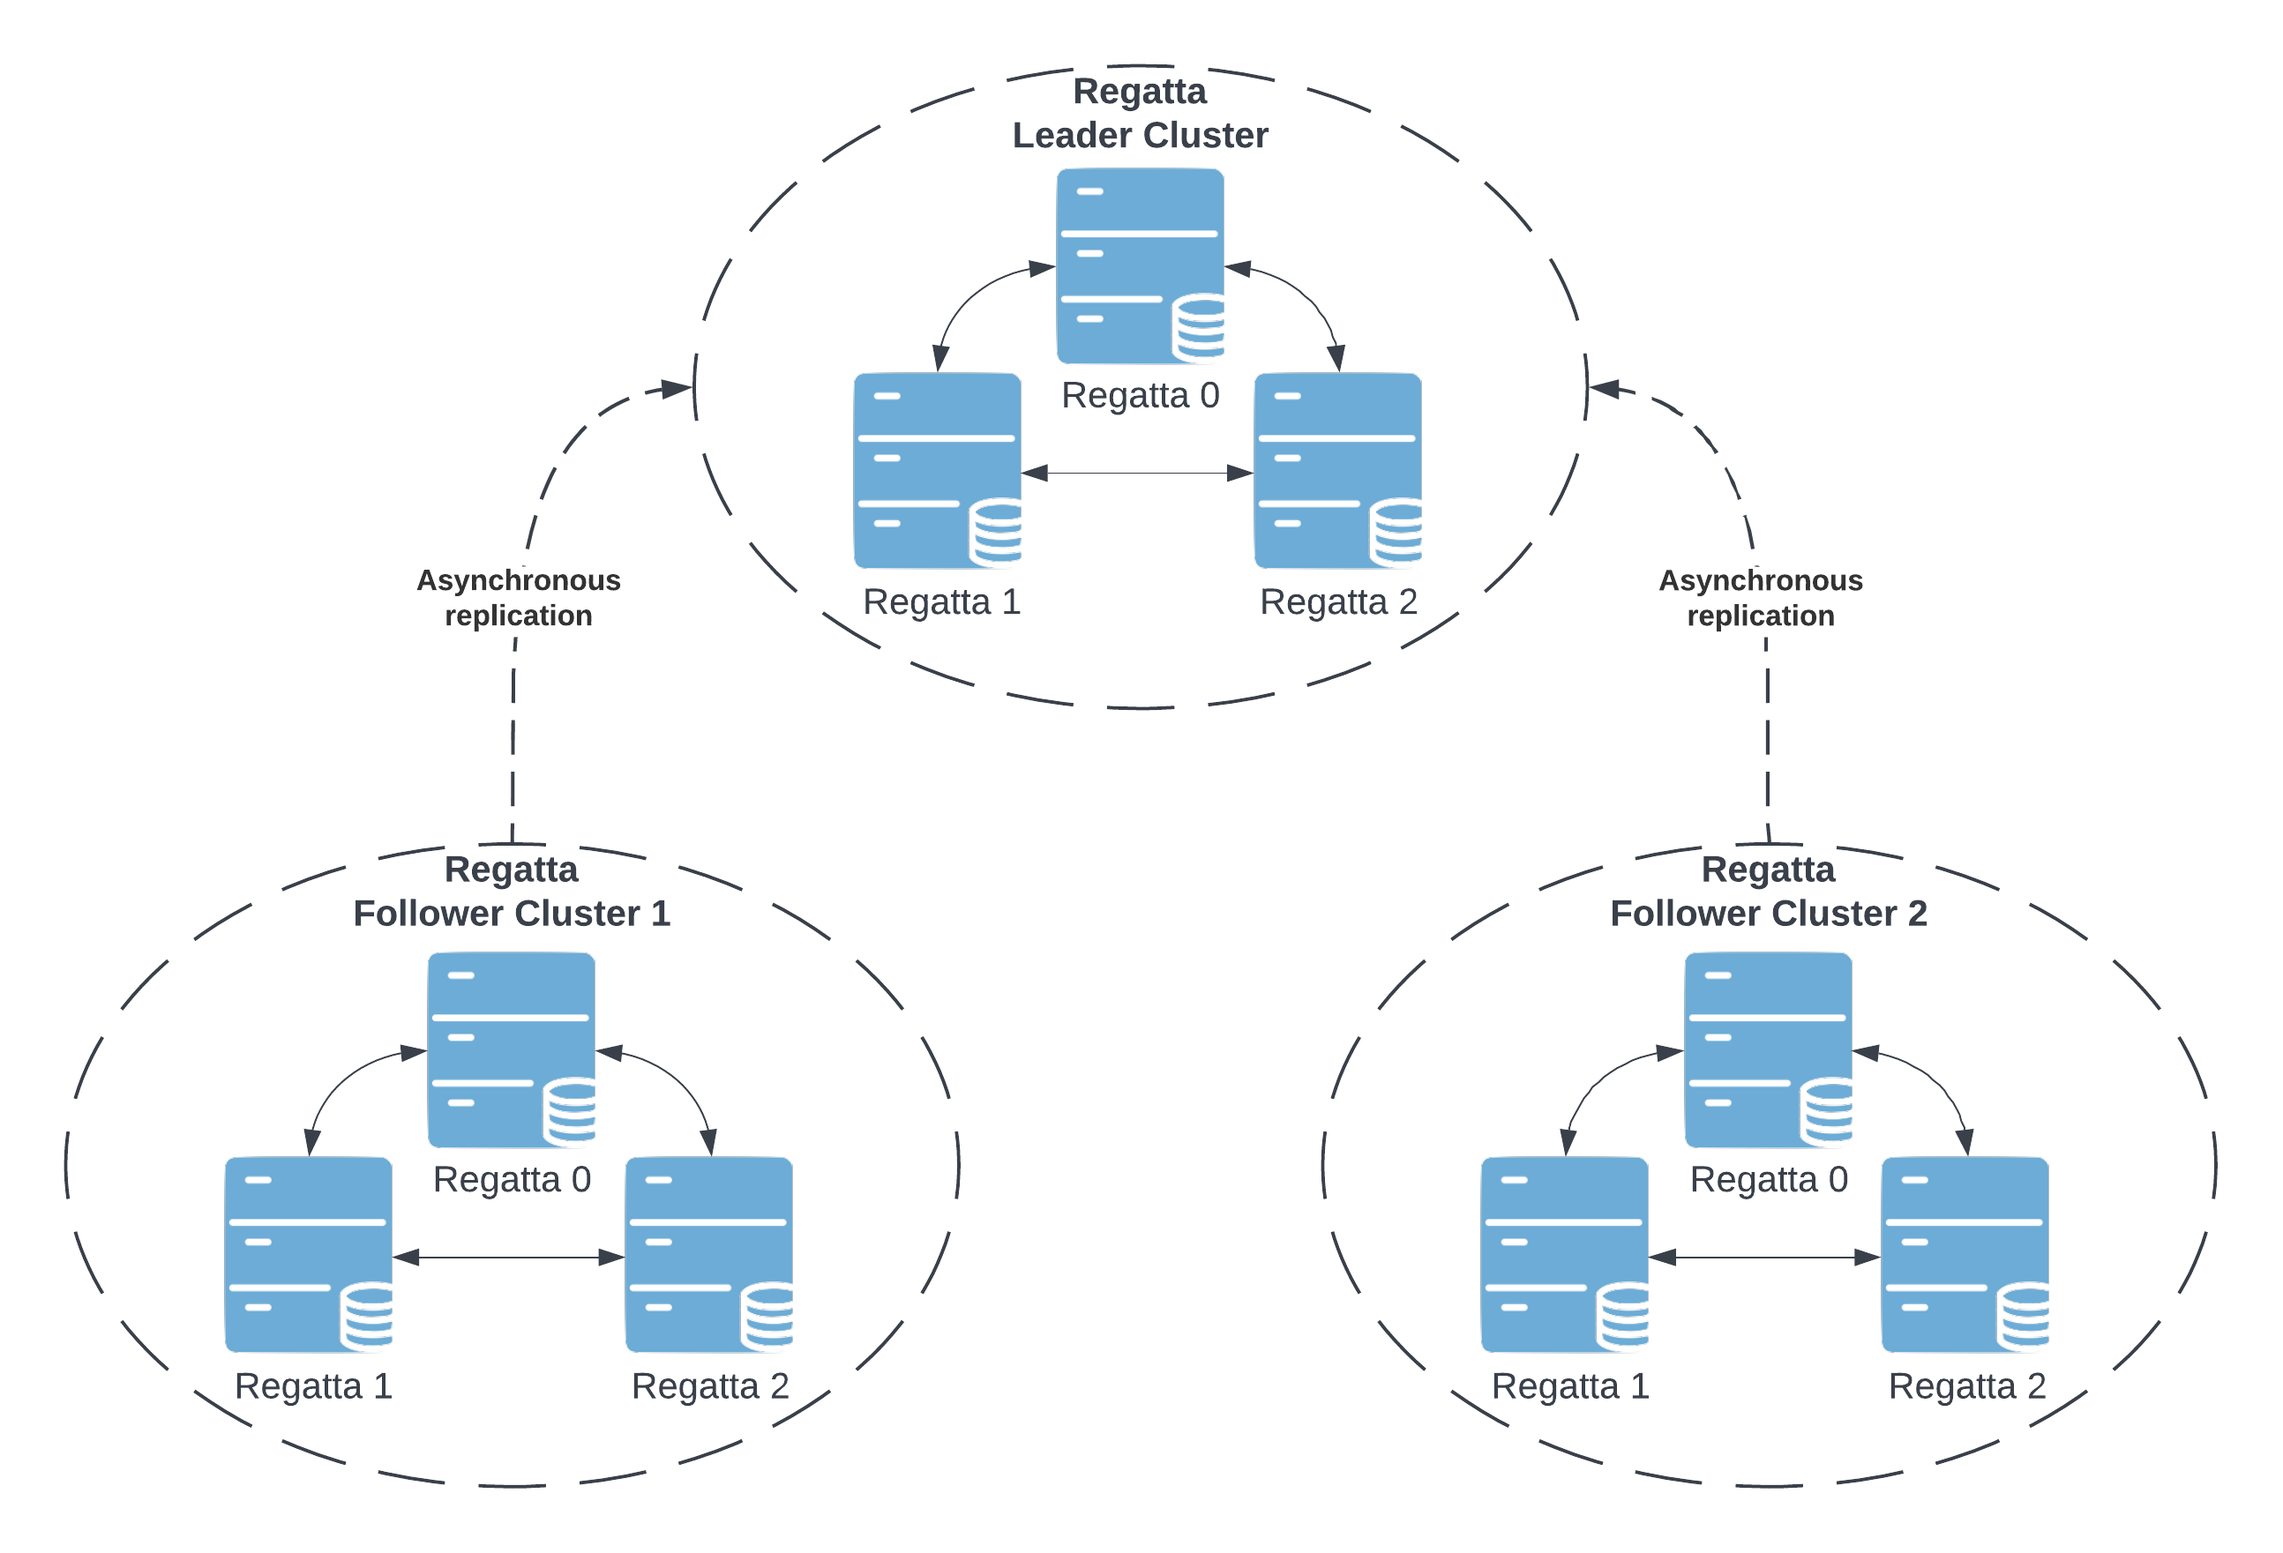
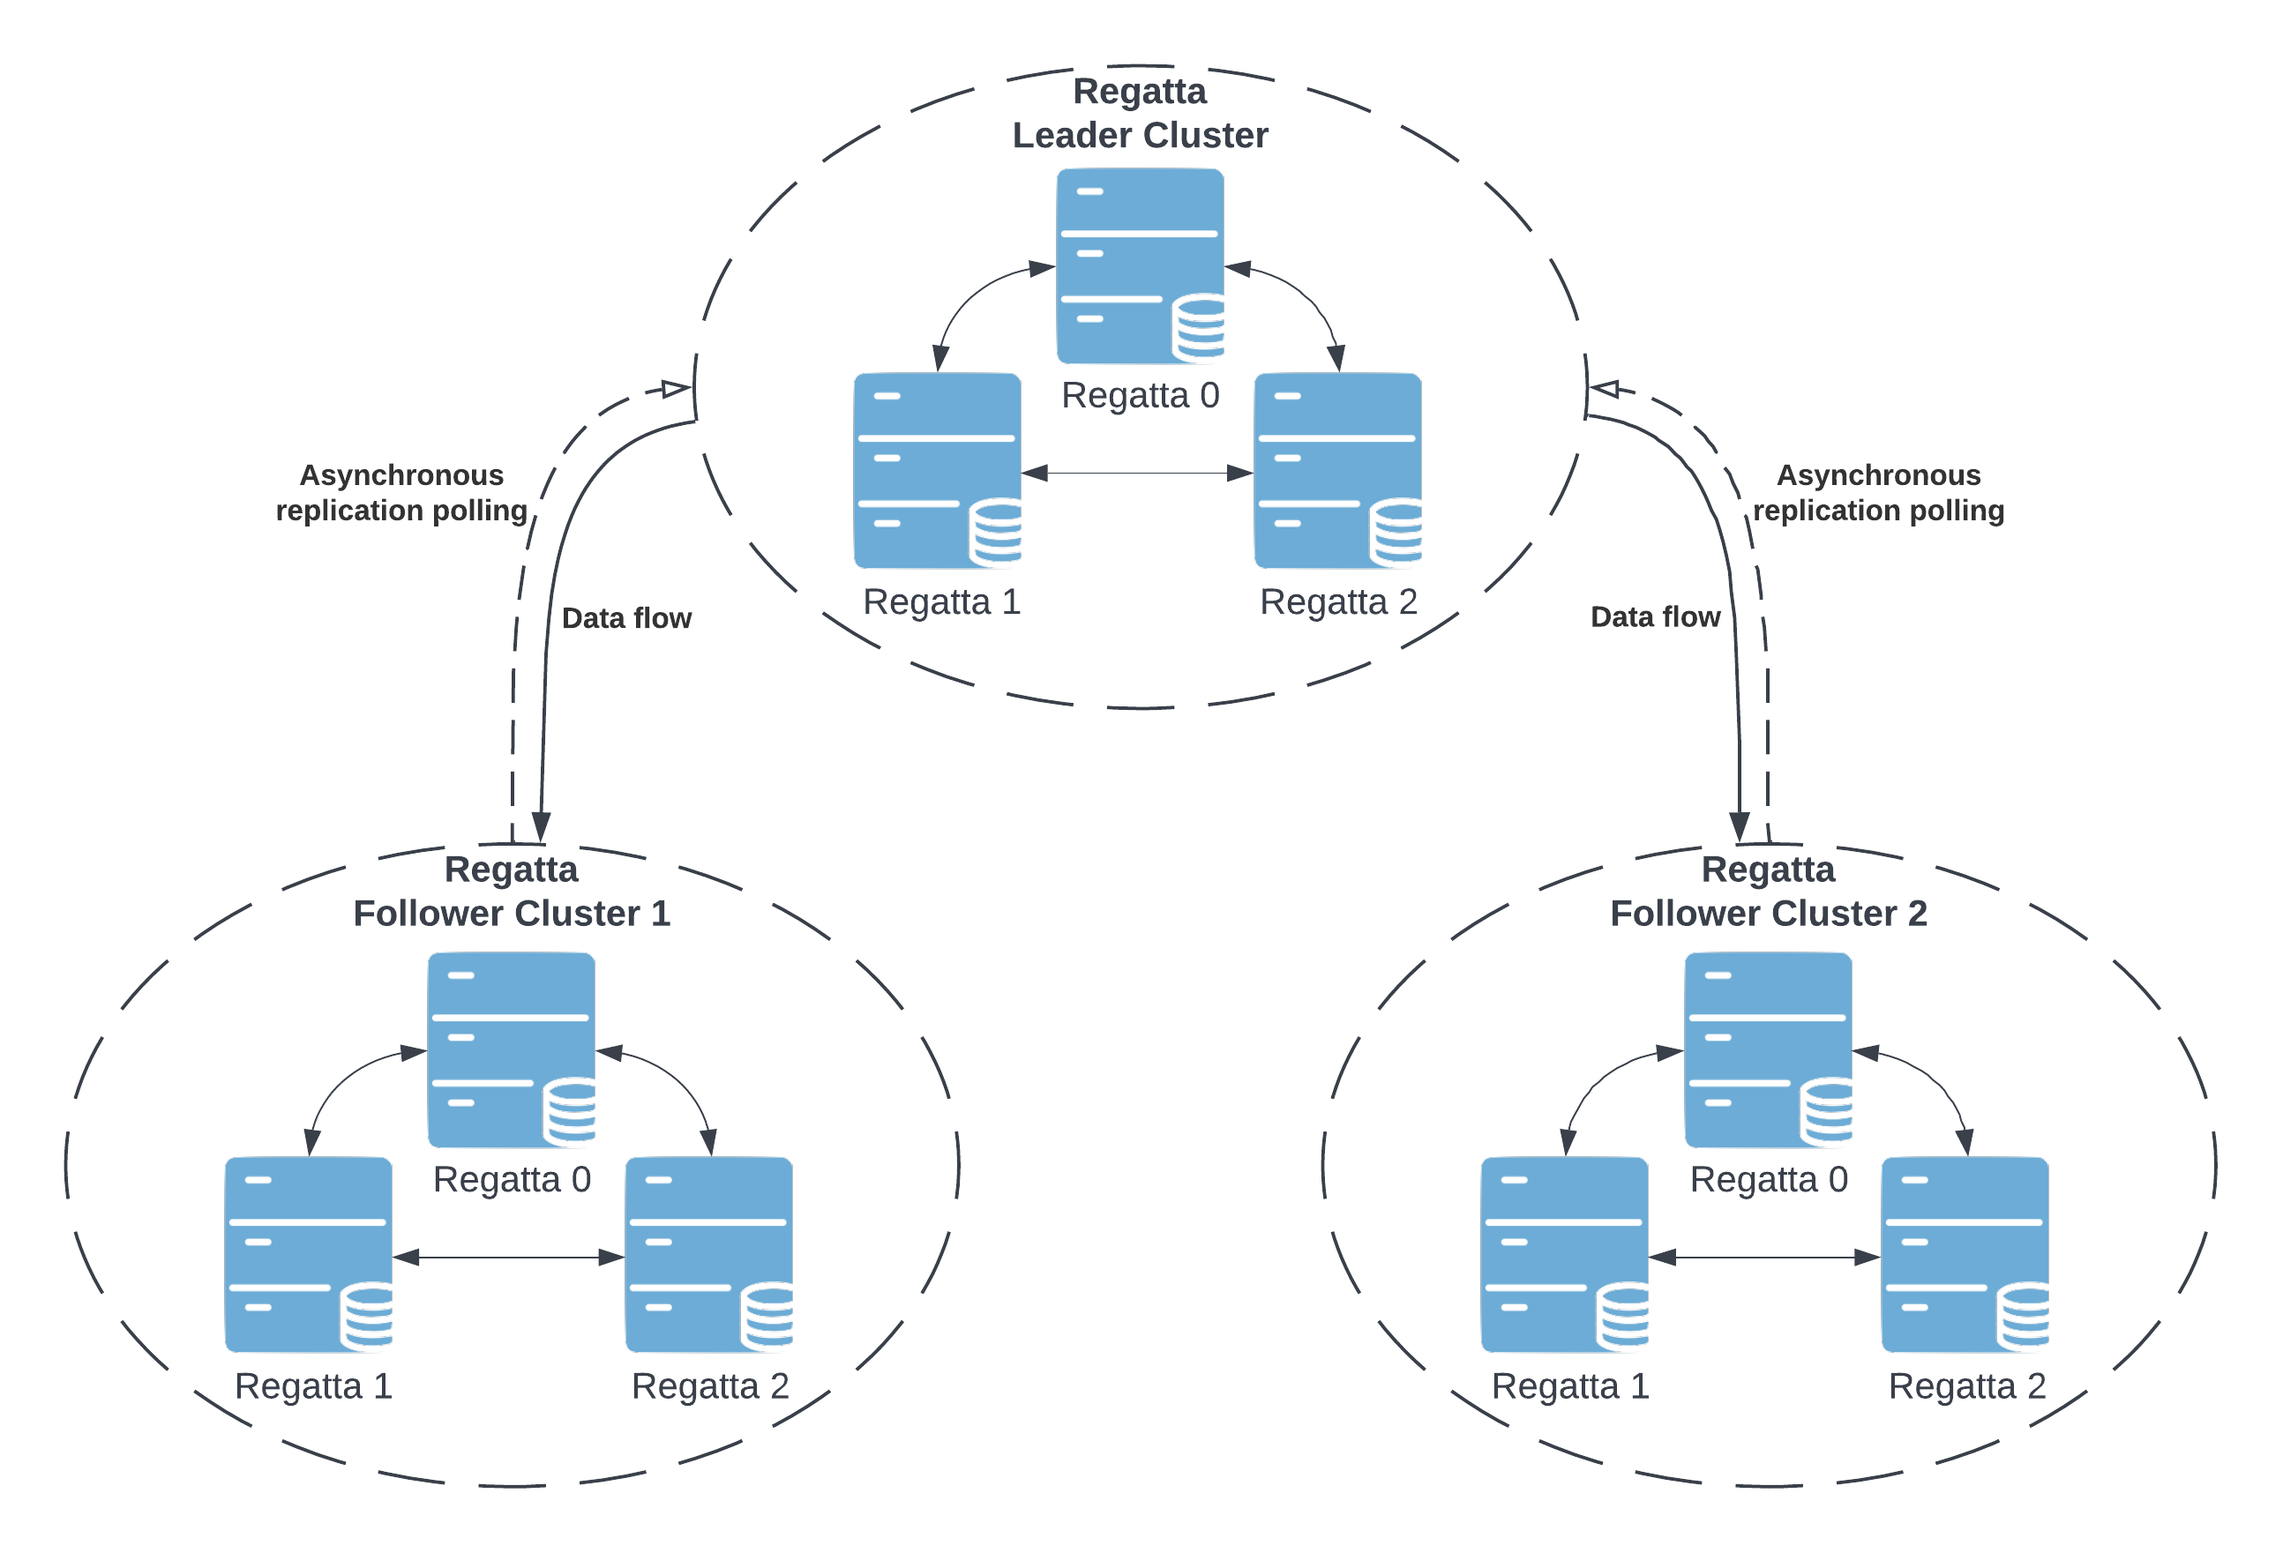
fix: docs: topology schema, page order, links

diff --git a/docs/index.md b/docs/index.md
@@ -1,5 +1,5 @@
 ---
-title: Home
+title: Introduction
 layout: home
 nav_order: 1
 ---
@@ -7,36 +7,40 @@ nav_order: 1
 # Regatta
 
 **Regatta** is a distributed, eventually consistent key-value store built for Kubernetes.
-It is designed to distribute data globally in a *hub-and-spoke model* with an emphasis on *high read throughput*.
+It is designed to distribute data globally in a
+[*hub-and-spoke model*](https://en.wikipedia.org/wiki/Spoke–hub_distribution_paradigm)
+with an emphasis on *high read throughput*.
 It is *fault-tolerant* and able to handle network partitions and node outages gracefully.
 
-## Built for Kubernetes
+## Feature Overview
+
+### Built for Kubernetes
 
 Regatta is Kubernetes native. You can manage and monitor Regatta as any
 other Kubernetes deployment. Check out the
 [official Regatta Helm Chart](https://github.com/jamf/regatta-helm) for more information.
 
-## Distribute data globally in a hub-and-spoke model
+### Distribute data globally in a hub-and-spoke model
 
 Regatta is designed to efficiently distribute data from a single core cluster
 to multiple edge clusters around the world. See the [Architecture](/architecture#Topology)
 page for more information.
 
-## Emphasis on high read throughput
+### Emphasis on high read throughput
 
 Regatta is built to handle read-heavy workloads and to serve sub-millisecond reads.
 
-## Fault-tolerance and data availability
+### Fault-tolerance and data availability
 
 Thanks to the Raft algorithm and data redundancy, Regatta can serve reads even in the event of
 network partition or node outage.
 
-## Data persistance
+### Data persistance
 
 Regatta is more than just an in-memory cache -- data persistence is built-in. Regatta
 can be backed up and restored from backups.
 
-## Dynamic scaling of edge clusters
+### Dynamic scaling of edge clusters
 
 Regatta makes it really easy to add new edge clusters. When adding a new edge cluster,
 no other clusters are affected and the data is automatically replicated from the core cluster to the edge cluster.
@@ -48,7 +52,7 @@ no other clusters are affected and the data is automatically replicated from the
 Regatta will provide a read-only copy of the data in edge locations. Regatta will take care of the data replication,
 data availability, and resilience in case of failure of the core cluster.
 
-### You need a local, persistent, cache within a data center and reads heavily outnumber writes
+### You need a local, persistent, cache within a data center where reads heavily outnumber writes
 
 Regatta writes are expensive in comparison with Redis for example.
 Reads are usually served from memory, resulting in sub-millisecond reads.
@@ -58,6 +62,12 @@ Reads are usually served from memory, resulting in sub-millisecond reads.
 You can define secondary indexes or additional columns/tables within a single Regatta table.
 The data consistency is granted within a single table.
 There are compare-and-switch and multi-key atomic operations available.
+
+## Why Regatta?
+
+Regatta was built because we were unable to find a distributed system
+offering all of the aforementioned features. Full story behind Regatta can be found in the blog post
+[The story of Regatta](https://medium.com/@coufalja/4652f71a350f).
 
 {: .important }
 Regatta is under heavy development. This means the API may change

diff --git a/docs/architecture.md b/docs/architecture.md
@@ -1,19 +1,21 @@
 ---
 title: Architecture
 layout: default
-nav_order: 4
+nav_order: 3
 ---
 
 # Architecture
 
-Regatta is designed as a "geographically distributed etcd", providing etcd-like gRPC API in every location
+Regatta is designed as a "geographically distributed [etcd](https://etcd.io)", providing etcd-like gRPC API in every location
 while maintaining a consistent data set. See [API](/api) for the complete documentation of the gRPC API.
 
 ## Topology
 
-The Regatta is designed as a hub-and-spoke or consistent-core system. There is always a single statically
-defined leader cluster in the topology. Having a statically defined leader cluster reduces operational
-costs and greatly simplifies the system due to fewer moving parts.
+The Regatta is designed as a
+[hub-and-spoke](https://en.wikipedia.org/wiki/Spoke–hub_distribution_paradigm),
+[consistent core system](https://martinfowler.com/articles/patterns-of-distributed-systems/consistent-core.html).
+There is always a single statically defined leader cluster in the topology. Having a statically defined leader cluster
+reduces operational costs and greatly simplifies the system due to fewer moving parts.
 
 Regatta topology is designed as a multi-group Raft cluster within each data center with asynchronous
 pull-based replication across locations. There are two types of clusters within Regatta multi-location deployment:
@@ -29,9 +31,9 @@ Thanks to this topology, the user can dynamically add additional follower cluste
 
 ## Raft
 
-Regatta uses Raft protocol to ensure consistent data within the boundaries of a single cluster. Raft is
-used only for data replication within a cluster. Data replication from leader to follower clusters is
-done via asynchronous polling. That way Regatta can grant high write throughput within the
+Regatta uses [Raft protocol](https://raft.github.io) to ensure consistent data within the boundaries of a single cluster.
+Raft is used only for data replication within a cluster. **Data replication from leader to follower clusters is
+done via asynchronous polling**. That way Regatta can grant high write throughput within the
 leader cluster without adding cross-location latency to each request.
 
 The consensus algorithm provides fault-tolerance by allowing the system to operate as long as the majority of members
@@ -42,8 +44,8 @@ are available. This is not only useful for disaster scenarios but also enables t
 ## Tables
 
 Regatta supports the notion of tables throughout its API. The tables could be imagined as sort of keyspaces or schemas.
-Each table is its own Raft group replicating within a single location, while also being a single replication unit for
-cross-location replication. That said, all the API guarantees regarding consistency are always scoped to a single table.
+*Each table is its own Raft group replicating within a single location, while also being a single replication unit for
+cross-location replication*. That said, all the API guarantees regarding consistency are always scoped to a single table.
 There is no guarantee of data consistency within multiple tables.
 
 ## APIs

diff --git a/docs/quickstart.md b/docs/quickstart.md
@@ -1,7 +1,7 @@
 ---
 title: Quickstart
 layout: default
-nav_order: 2
+nav_order: 3
 ---
 
 # Running Regatta
@@ -10,7 +10,14 @@ There are multiple possibilities for how to run Regatta -- building Regatta from
 using the official Regatta Docker image, or deploying Regatta to Kubernetes via Helm Charts, which is the
 recommended way.
 
-## Build binary from source
+{: .important }
+In order to run Regatta, TLS certificates and keys must be provided. For testing purposes,
+[certificate and key present in the repository](https://github.com/jamf/regatta/tree/cfc58f0205484b0c8a24c7cbcc0be8563b7cf6a5/hack)
+can be used.
+
+## Run binary
+
+### Build from source
 
 To build and run Regatta locally, see the [Contribution page](/contributing) for all
 the required dependencies. Then just run
@@ -19,6 +26,25 @@ the required dependencies. Then just run
 git clone git@github.com:jamf/regatta.git && cd regatta
 make run
 ```
+
+This command will start a Regatta leader cluster with a single instance locally.
+
+### Download released binary
+
+You can also download binary from the [Releases GitHub Page](https://github.com/jamf/regatta/releases).
+After downloading the binary for the given platform, unzip the archive and run the following command:
+
+```bash
+tar -xf regatta-darwin-amd64.tar
+./regatta leader \
+    --dev-mode \
+    --api.reflection-api \
+    --raft.address=127.0.0.1:5012 \
+    --raft.initial-members='1=127.0.0.1:5012' \
+    --tables.names=regatta-test
+```
+
+This command will start a Regatta leader cluster with a single instance locally.
 
 ## Pull and run official Docker image
 
@@ -37,12 +63,13 @@ docker run \
     --tables.names=regatta-test
 ```
 
-{: .note }
-In order to run Regatta, TLS certificates and keys must be provided. For testing purposes,
-[certificate and key present in the repository](https://github.com/jamf/regatta/tree/cfc58f0205484b0c8a24c7cbcc0be8563b7cf6a5/hack)
-can be used.
+This command will start a Regatta leader cluster with a single instance in a Docker container.
 
-## Deploying to Kubernetes from Helm Chart
+{: .note }
+Mind the `--mount` argument: testing certificates present in `/hack` in the Regatta repository are mounted
+to the container.
+
+## Deploy to Kubernetes from Helm Chart
 
 To easily deploy Regatta to Kubernetes, official [Regatta Helm Chart](https://github.com/jamf/regatta-helm) can be used.
 
@@ -76,7 +103,7 @@ This will deploy Regatta leader cluster with one replica. See page
 [Deploying to Kubernets](/operations_guide/deploying_to_kubernetes/) for the more advanced deployment
 of Regatta and how to connect follower clusters to the leader cluster.
 
-## Interacting with Regatta
+## Interact with Regatta
 
 Once Regatta is up and running, check the [User Guide page](/user_guide) to see how
 to interact with Regatta.

diff --git a/docs/operations_guide/metrics_and_observability.md b/docs/operations_guide/metrics_and_observability.md
@@ -7,9 +7,19 @@ nav_order: 4
 
 ## Metrics
 
-Metrics are available via the `/metrics` endpoint in the REST API (default port 8079),
-exposing Go runtime statistics, gRPC statistics, and [Dragonboat](https://github.com/lni/dragonboat) statistics,
-which is the underlying framework used for Raft clusters.
+Regatta exposes metrics for Prometheus, available via the `/metrics` endpoint in the REST API (default port 8079).
+Go runtime statistics, gRPC statistics, and [Dragonboat](https://github.com/lni/dragonboat) statistics,
+which is the underlying framework used for Raft clusters, are exposed. Some of the exposed metrics:
+
+* `dragonboat_raftnode_has_leader{shardid="1000",replicaid="1"}` --
+  Raft leader for the table with shard ID `1000` is instance `1`.
+* `grpc_server_handled_total{grpc_code="OK",grpc_method="Range",grpc_service="regatta.v1.KV",grpc_type="unary"}` --
+  total number of served `Range` requests.
+* `regatta_table_storage_cache_hits{clusterID="10001",table="regatta-test",type="block"}` --
+  Regatta table storage block cache hits
+* `regatta_table_storage_cache_misses{clusterID="10001",table="regatta-test",type="block"}` --
+  Regatta table storage block cache misses
+* `regatta_table_storage_read_amp{clusterID="10001",table="regatta-test"}` -- Regatta table storage read amplification
 
 ## Alerts
 

diff --git a/docs/operations_guide/backups.md b/docs/operations_guide/backups.md
@@ -15,6 +15,10 @@ and built-in [`backup`](/operations_guide/cli/regatta_backup) and
 {: .important }
 Backing up and restoring can be done only in a leader cluster.
 
+To interact with Regatta's Maintenance API, use the `regatta` binary, which can be
+downloaded from the [Releases GitHub page](https://github.com/jamf/regatta/releases)
+or use the [Docker Image](https://github.com/orgs/jamf/packages?repo_name=regatta).
+
 ## Create backup
 
 To create backups, Maintenance API must be enabled during Regatta startup.
@@ -33,7 +37,8 @@ regatta backup \
       --json=true
 ```
 
-The command then creates binary file for each table and a human-readable JSON manifest.
+The command then creates binary file for each table and a human-readable JSON manifest
+from Regatta leader cluster running on `127.0.0.1:8445`.
 
 ### Periodically backing up to S3 Bucket
 
@@ -54,9 +59,12 @@ regatta restore \
       --address=127.0.0.1:8445 \
       --token=$(BACKUP_TOKEN) \
       --ca=ca.crt \
-      --dir=/backup \
+      --dir=./backup \
       --json=true
 ```
+
+This command overwrites all the tables specified in the `backup` directory in a Regatta leader cluster
+runnin on `127.0.0.1:8445`.
 
 ## Resetting a follower cluster
 

diff --git a/docs/operations_guide/deploying_to_kubernetes.md b/docs/operations_guide/deploying_to_kubernetes.md
@@ -16,7 +16,7 @@ See
 definitions in the Helm Chart or [`regatta leader`](/operations_guid/cli/regatta_leader)
 and [`regatta follower`](/operations_guid/cli/regatta_follower) commands for reference.
 
-## Deploying Regatta cluster
+## Deploying Regatta leader cluster
 
 To deploy Regatta leader cluster, let's specify the following values:
 
@@ -28,6 +28,9 @@ mode: leader
 replicas: 3
 raft:
   initialMembers: "1=regatta-0.regatta.regatta.svc.cluster.local:5012,2=regatta-1.regatta.regatta.svc.cluster.local:5012,3=regatta-2.regatta.regatta.svc.cluster.local:5012"
+
+# Specify the tables.
+tables: testing-table1,testing-table2
 
 replication:
   # Regatta leader cluster's replication gRPC API for the follower clusters to connect to.
@@ -79,6 +82,9 @@ mode: follower
 replicas: 3
 raft:
   initialMembers: "1=regatta-0.regatta.regatta.svc.cluster.local:5012,2=regatta-1.regatta.regatta.svc.cluster.local:5012,3=regatta-2.regatta.regatta.svc.cluster.local:5012"
+
+# Specify the tables.
+tables: testing-table1,testing-table2
 
 replication:
   # Disable the Replication gRPC API for follower clusters.
